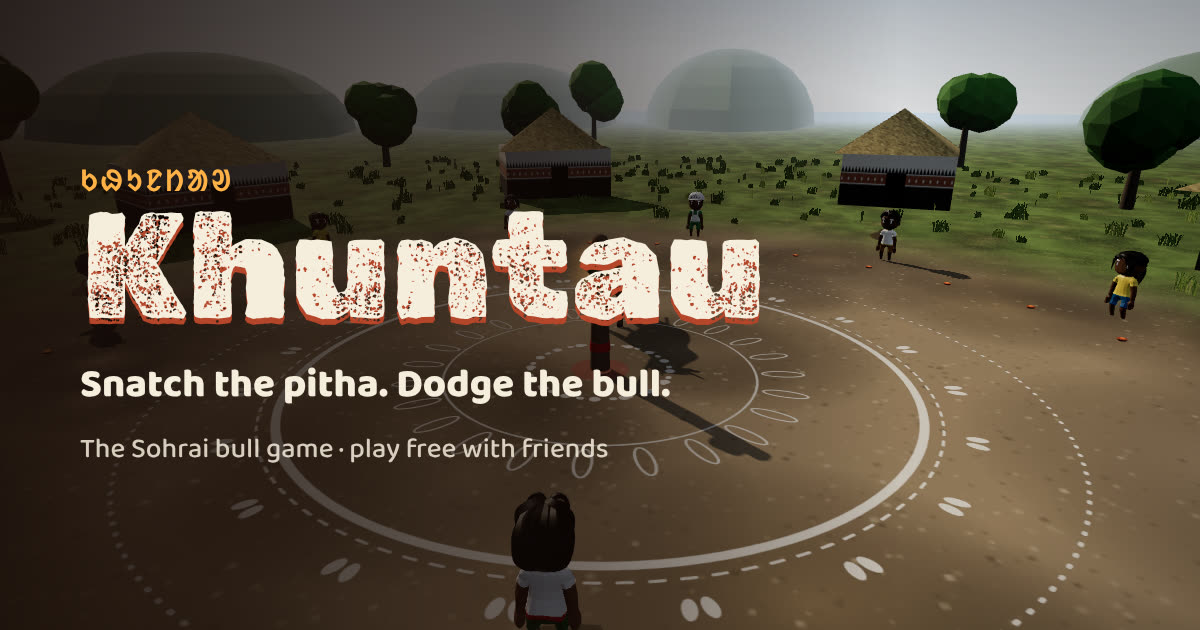
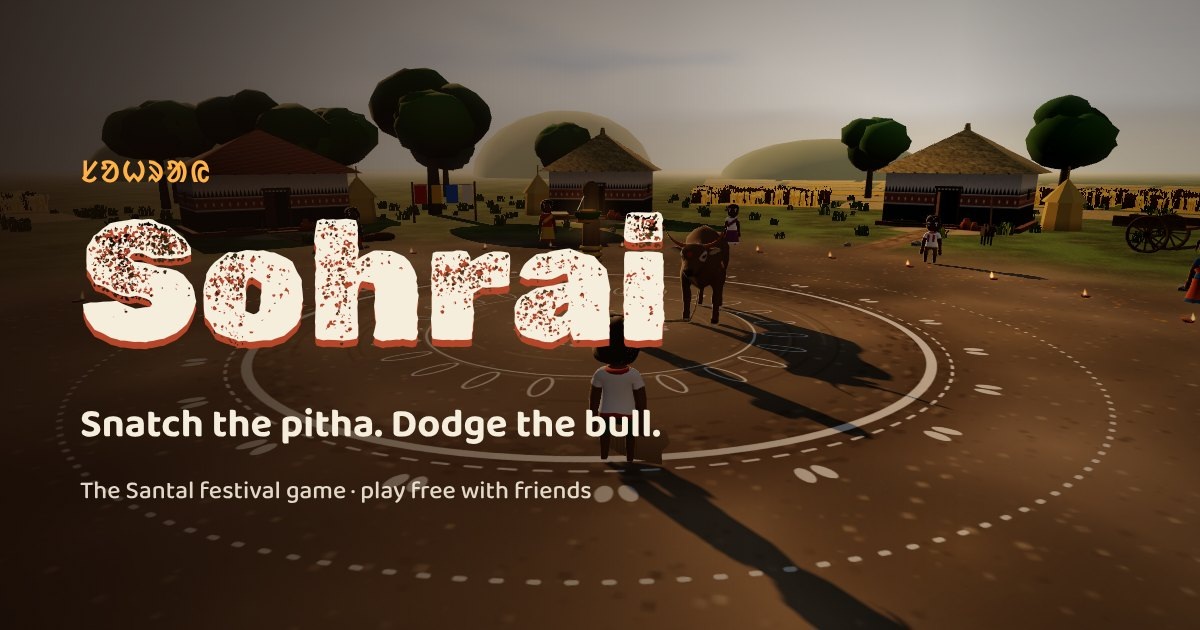
Rename the game to Sohrai (players see Sohrai; URL, storage keys and package id unchanged)
Title, home screen with Ol Chiki, share card and texts, link preview image, manifest, reminder notification, stats page, TWA name. Khuntau stays as the name of the bull-post day inside the game.

Claude-Session: https://claude.ai/code/session_01KCa63d1q4xKvaZt2SCG6hK

diff --git a/public/index.html b/public/index.html
@@ -4,7 +4,7 @@
 <meta charset="utf-8">
 <meta name="viewport" content="width=device-width, initial-scale=1, viewport-fit=cover, user-scalable=no">
 <meta name="description" content="Sohrai bull game. Snatch the pitha from the khunt without getting horned. Play with friends online.">
-<meta property="og:title" content="Khuntau: the Sohrai bull game">
+<meta property="og:title" content="Sohrai: the Santal festival game">
 <meta property="og:image" content="https://khuntau.dulalkisku0.workers.dev/og.jpg">
 <meta property="og:image:width" content="1200"><meta property="og:image:height" content="630">
 <meta property="og:url" content="https://khuntau.dulalkisku0.workers.dev/">
@@ -18,7 +18,7 @@
 <meta name="mobile-web-app-capable" content="yes">
 <meta name="apple-mobile-web-app-status-bar-style" content="black-translucent">
 <style>:root{padding-top:env(safe-area-inset-top);padding-bottom:env(safe-area-inset-bottom)}body{margin:0}</style>
-<title>Khuntau</title>
+<title>Sohrai</title>
 <link rel="stylesheet" href="/fonts/fonts.css">
 <style>
 /* Layout: one full-screen 3D ring; HUD floats on the corners, touch controls on the bottom edge.
@@ -318,8 +318,8 @@ html.story-on:not(.touch) #prompt { bottom: calc(40px + env(safe-area-inset-bott
 
 <div class="overlay" id="startScreen">
   <div class="card home">
-    <div class="olchiki" lang="sat">ᱠᱷᱩᱱᱴᱟᱣ</div>
-    <h1>Khuntau</h1>
+    <div class="olchiki" lang="sat">ᱥᱚᱦᱨᱟᱭ</div>
+    <h1>Sohrai</h1>
     <p class="tag">Snatch the pitha. Dodge the bull.</p>
     <p class="challenge" id="challenge" hidden></p>
     <div class="bar" id="loadBar"><i></i></div>
@@ -2388,14 +2388,14 @@ async function shareScore() {
   const vb = meta.vil && vboard && vboard.today && vboard.today.me, above = vb && vb.above;
   if (meta.vil) track('share.vil');
   const text = (challenge && pts > challenge.beat ? `I beat ${challenge.from || 'my friend'}'s ${challenge.beat} with ${pts} points` : `I scored ${pts} points`)
-    + (meta.vil ? ` for ${meta.vil.v} (${meta.vil.d}) in Khuntau this Sohrai.` + (above ? ` Help us pass ${above.v}!` : vb && vb.rank === 1 ? ' We are #1 today. Keep us there!' : ' Play for our village!') + ` ${link}`
-      : ` in Khuntau (${rank}) this Sohrai. Can you beat me? ${link}`);
+    + (meta.vil ? ` for ${meta.vil.v} (${meta.vil.d}) in Sohrai, at the Khuntau.` + (above ? ` Help us pass ${above.v}!` : vb && vb.rank === 1 ? ' We are #1 today. Keep us there!' : ' Play for our village!') + ` ${link}`
+      : ` at the Khuntau (${rank}) in Sohrai. Can you beat me? ${link}`);
   const note = $('copyNote');
   try {
     const blob = await scoreCard(pts, rank);
     const file = new File([blob], 'khuntau-score.png', { type: 'image/png' });
-    if (navigator.canShare && navigator.canShare({ files: [file] })) { await navigator.share({ files: [file], text, title: 'Khuntau' }); return; }
-    if (navigator.share) { await navigator.share({ text, title: 'Khuntau' }); return; }
+    if (navigator.canShare && navigator.canShare({ files: [file] })) { await navigator.share({ files: [file], text, title: 'Sohrai' }); return; }
+    if (navigator.share) { await navigator.share({ text, title: 'Sohrai' }); return; }
     const a = document.createElement('a'); a.href = URL.createObjectURL(blob); a.download = 'khuntau-score.png'; a.click();
     window.open('https://wa.me/?text=' + encodeURIComponent(text), '_blank', 'noopener');
     note.textContent = 'Score card saved. Attach it to your WhatsApp message.';
@@ -2416,7 +2416,7 @@ async function scoreCard(pts, rank) {
     const fade = x.createLinearGradient(0, 480, 0, 790); fade.addColorStop(0, 'rgba(26,12,6,0)'); fade.addColorStop(1, 'rgba(26,12,6,1)'); x.fillStyle = fade; x.fillRect(0, 480, W, 320);
   }
   x.textAlign = 'center'; x.fillStyle = '#ffb347'; x.font = '600 34px "Noto Sans Ol Chiki", sans-serif'; x.fillText('ᱠᱷᱩᱱᱴᱟᱣ', W / 2, 90);
-  x.font = '120px "Rubik Dirt", "Baloo 2", sans-serif'; x.fillStyle = '#b5462a'; x.fillText('Khuntau', W / 2, 212); x.fillStyle = '#f6eedd'; x.fillText('Khuntau', W / 2, 205);
+  x.font = '120px "Rubik Dirt", "Baloo 2", sans-serif'; x.fillStyle = '#b5462a'; x.fillText('Sohrai', W / 2, 212); x.fillStyle = '#f6eedd'; x.fillText('Sohrai', W / 2, 205);
   x.font = '240px "Rubik Dirt", "Baloo 2", sans-serif'; x.fillStyle = '#b5462a'; x.fillText(String(pts), W / 2, 1000); x.fillStyle = '#ffb347'; x.fillText(String(pts), W / 2, 990);
   x.font = '800 44px "Baloo 2", sans-serif'; x.fillStyle = '#f6eedd'; x.fillText('points · ' + rank, W / 2, 1070);
   x.font = '800 54px "Baloo 2", sans-serif'; x.fillStyle = '#ffb347'; x.fillText('Can you beat me?', W / 2, 1180);
@@ -3234,8 +3234,8 @@ $('hostStartBtn').addEventListener('click', () => netSend({ t: 'start' }));
 $('leaveBtn').addEventListener('click', () => leaveOnline(false));
 $('outLobbyBtn').addEventListener('click', () => { gallop(false); showLobby(); toast(net.phase === 'play' ? 'The round is finishing. The next one starts from here.' : 'Back in the lobby', 2200); });
 $('shareBtn').addEventListener('click', () => { track('share.room');
-  const text = `Come play Khuntau with me this Sohrai! Snatch the pitha before the bull gets you. Room ${net.code}: ${roomLink()}`;
-  if (navigator.share) { navigator.share({ title: 'Khuntau', text }).catch(() => {}); return; }
+  const text = `Come play Sohrai with me! Snatch the pitha before the bull gets you. Room ${net.code}: ${roomLink()}`;
+  if (navigator.share) { navigator.share({ title: 'Sohrai', text }).catch(() => {}); return; }
   window.open('https://wa.me/?text=' + encodeURIComponent(text), '_blank', 'noopener');
 });
 $('copyLinkBtn').addEventListener('click', () => {

diff --git a/public/sw.js b/public/sw.js
@@ -1,6 +1,6 @@
 // Khuntau service worker: keeps the game on the phone so solo play works offline, and sends the daily reminder.
 // The page itself is always fetched fresh when there is a connection, so updates show at once.
-const VERSION = '80e5d848c3';
+const VERSION = '337df98aec';
 const CACHE = 'khuntau-' + VERSION;
 const FILES = [ "/audio/bellow.mp3", "/audio/bells.mp3", "/audio/bonk.mp3", "/audio/cheer1.mp3", "/audio/cheer2.mp3", "/audio/clap.mp3", "/audio/gallop.mp3", "/audio/khuntau.mp3", "/audio/highfive.mp3", "/audio/hit.mp3", "/audio/intro.mp3", "/audio/punch.mp3", "/audio/snap.mp3", "/audio/snort.mp3", "/audio/whoosh.mp3", "/fonts/baloo-2-latin-ext.woff2", "/fonts/baloo-2-latin.woff2", "/fonts/fonts.css", "/fonts/noto-sans-ol-chiki-latin-ext.woff2", "/fonts/noto-sans-ol-chiki-latin.woff2", "/fonts/noto-sans-ol-chiki-ol-chiki.woff2", "/fonts/rubik-dirt-latin-ext.woff2", "/fonts/rubik-dirt-latin.woff2", "/icon-192.png", "/icon-512.png", "/index.html", "/manifest.webmanifest", "/story.js", "/life.js", "/models/bull.json", "/models/casual_female.json", "/models/cow.json", "/models/casual_male.json", "/models/worker_female.json", "/vendor/three/build/three.module.min.js", "/vendor/three/examples/jsm/loaders/GLTFLoader.js", "/vendor/three/examples/jsm/utils/BufferGeometryUtils.js", "/vendor/three/examples/jsm/utils/SkeletonUtils.js" ];
 
@@ -53,7 +53,7 @@ self.addEventListener('push', (e) => {
       if (d.top && d.top[0]) body = `${d.top[0].n} leads today with ${d.top[0].p}. Can you take the ring before midnight?`;
       else if (d.yday) body = `Nobody has scored today. Yesterday ${d.yday.n} won with ${d.yday.p}. Be first!`;
     } catch (err) {}
-    await self.registration.showNotification('Khuntau', { body, icon: '/icon-192.png', badge: '/icon-192.png', tag: 'khuntau-daily', renotify: true, data: { url: '/' } });
+    await self.registration.showNotification('Sohrai', { body, icon: '/icon-192.png', badge: '/icon-192.png', tag: 'khuntau-daily', renotify: true, data: { url: '/' } });
   })());
 });
 self.addEventListener('notificationclick', (e) => {

diff --git a/public/stats.html b/public/stats.html
@@ -4,7 +4,7 @@
 <meta charset="utf-8">
 <meta name="viewport" content="width=device-width, initial-scale=1">
 <meta name="robots" content="noindex">
-<title>Khuntau numbers</title>
+<title>Sohrai numbers</title>
 <style>
   :root { --bg: #fbf7f1; --fg: #2a140c; --mute: #7a6456; --line: #e6dccf; --good: #2f7a46; --warn: #b8302a; --chip: #f1e7da; }
   @media (prefers-color-scheme: dark) { :root { --bg: #1a0f0a; --fg: #f6eedd; --mute: #b9a493; --line: #3a2a20; --good: #7ed39a; --warn: #ff8a7a; --chip: #2a1a12; } }
@@ -32,7 +32,7 @@
 </head>
 <body>
 <main>
-  <h1>Khuntau numbers</h1>
+  <h1>Sohrai numbers</h1>
   <p class="sub">Anonymous counts, one per visit per step (India time). <select id="range"><option value="7">Last 7 days</option><option value="14" selected>Last 14 days</option><option value="30">Last 30 days</option><option value="90">Last 90 days</option></select></p>
   <div class="funnel" id="funnel"></div>
   <div class="wrap"><table id="tbl"></table></div>

diff --git a/CLAUDE.md b/CLAUDE.md
@@ -1,6 +1,8 @@
-# Khuntau
+# Sohrai (was: Khuntau)
 
-Free 3D browser game about Khuntau (Dangra Khuntau), the bull-post day of the Santal Sohrai festival.
+Free 3D browser game about Sohrai, the Santal harvest festival, and Khuntau (Dangra Khuntau), its bull-post day.
+Renamed to **Sohrai** on 22 Nov (Dulor). Players see "Sohrai" everywhere; the repo, the URL, storage keys (`khuntau-*`),
+the cache name and the Play package id keep the old name on purpose (changing them would lose players' progress and break links).
 Live at https://khuntau.dulalkisku0.workers.dev. Made by Dulor (Tumdah). Phone players are the main market.
 
 ## Working with Dulor
@@ -138,6 +140,7 @@ Every row ends as **fixed + test** or **blocked + what Dulor must do**. Keep it 
 | A34 test (Dulor, 22 Nov): 60 fps but stuck at q3/q4, soft "low quality video", top-down camera you could not move | fixed + test | auto-quality only ever stepped down (a loading/shader hitch could knock it to q3 for good, saved in `khuntau-perf`); now new shader compiles pause the measuring, 10 readings at 56+ fps climb one stage back (`stepUp`, leaving the cheap materials takes effect next launch), a drop right after a climb stops climbing for the session, and old saves without `v: 2` are ignored once. Mid phones draw near native (MAX_PIX 1.5 -> 2.2 MP, pixel ratio cap 1.5 -> 2). Camera: drag the right side to swing and tilt, pinch or mouse wheel to zoom, in the village (story.js `look`) and the ring (`view` in index.html; movement stays camera-relative); lower, closer default views; the first tip says so (EN + HI). `look.mjs` (drag, tilt, zoom, camera-relative stick, step up/down) |
 | Dulor (22 Nov): Sarpa enej wrong, no pig at the stall, stall people and butcher moved weirdly | fixed + test | the stock clips have no clap, chop or dance, so arms and torso are now posed in code on top of the walk/idle clip (`pose`/`poseFrame` in index.html; `poseFrame` re-bases each bone every frame, because a clip with no track for a bone let the pose stack up). Sarpa enej: the women walk bent forward, clapping all the time (a palm-clap sound per beat), toward the village road and back, facing the house, legs stepping backward/forward at the right stride. Butcher: no sword-slash clip; the cleaver rises slowly over his head, comes down hard into the meat (the thock lands on impact), rests, left hand on the meat; bursts of 2-4 with pauses. Weigher holds the beam up and now and then adds a piece. Buyers: no stoop-to-the-floor clip; they reach across the table and carry the leaf parcel at the chest; walk speed matches the stride; fewer, longer steps. Pig: killed and singed, on its side on banana leaves beside the block (houses' mesh, no draws). `camera.mjs` (chop phases, fist over the head and into the meat, no sword/stoop clips, pig, Sarpa travel/bend/claps) |
 | Dulor (22 Nov): the music drowned the game's own sounds | rebalanced + test | the Khuntau track is now a quiet bed (`BED` in index.html: village 0.05, ring 0.09, were 0.3 and 0.5; home screen 0.8 -> 0.4) and every small synthesized sound goes through `audio.microBus` at x2.2 (steps, claps, animals, cleaver, door, bow, water). People talking is now speech-like: short syllables with a pitch fall and two formants from a few voices (`sfx.chatter`; the whisper noise was inaudible, an earlier held tone sounded like singing), plus a short laugh; heard at the pork stall, at the akhra and from the ring's crowd between charges. `sound.mjs` (levels, akhra talk, ring crowd talk). Dulor: listen on the phone; say which sounds are too loud, too quiet or fake |
+| Game renamed to Sohrai (Dulor, 22 Nov) | done; Dulor to confirm two things | title, home screen (Ol Chiki ᱥᱚᱦᱨᱟᱭ above it), share card and share texts, link preview image (`og.jpg` regenerated from the game), manifest (installed app name), reminder notification, stats page, `twa/twa-manifest.json` name. Khuntau stays as the name of the bull-post day inside the game (Gogo's lines, ranks, 'Start the Khuntau'). Not changed: the URL `khuntau.dulalkisku0.workers.dev`, `khuntau-*` storage keys, package id `com.tumdah.khuntau`. Dulor: confirm the Ol Chiki spelling, and say if you want a new address (a custom domain is the clean way; the old link must keep working) |
 | Archery was a timing bar with a picture glued on | rebuilt | drag-to-aim: crosshair follows the drag (thumb never covers the target), held-bow sway that grows if you hold too long, release to shoot, arrow lands where you aimed; arrow keys + Space on laptops. `story3.mjs` aims with real pointer drags; `drag-*.jpg` at 1280x720 and 780x390 |
 
 ## Promo videos (`promo/`)
